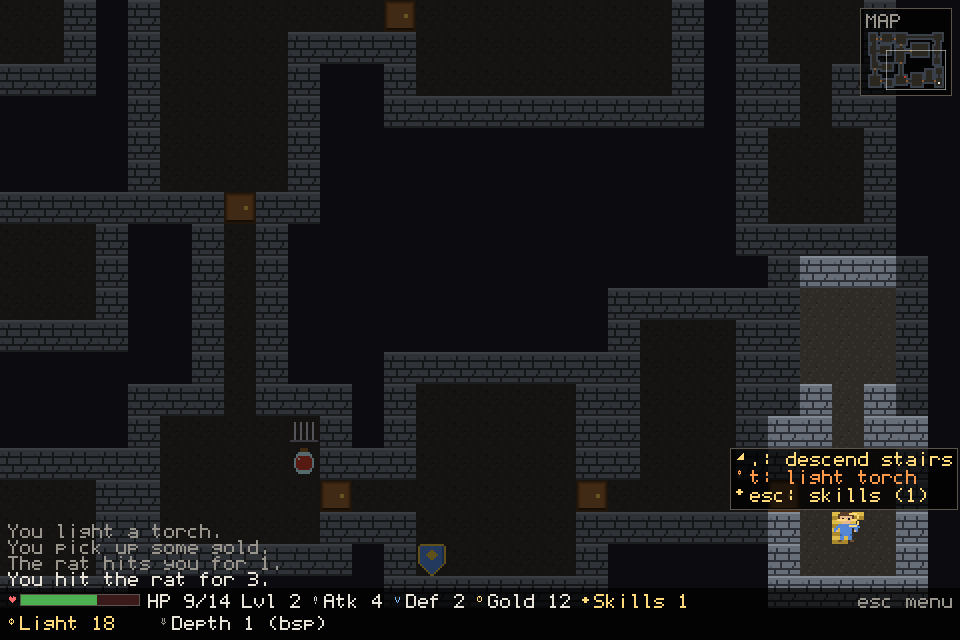
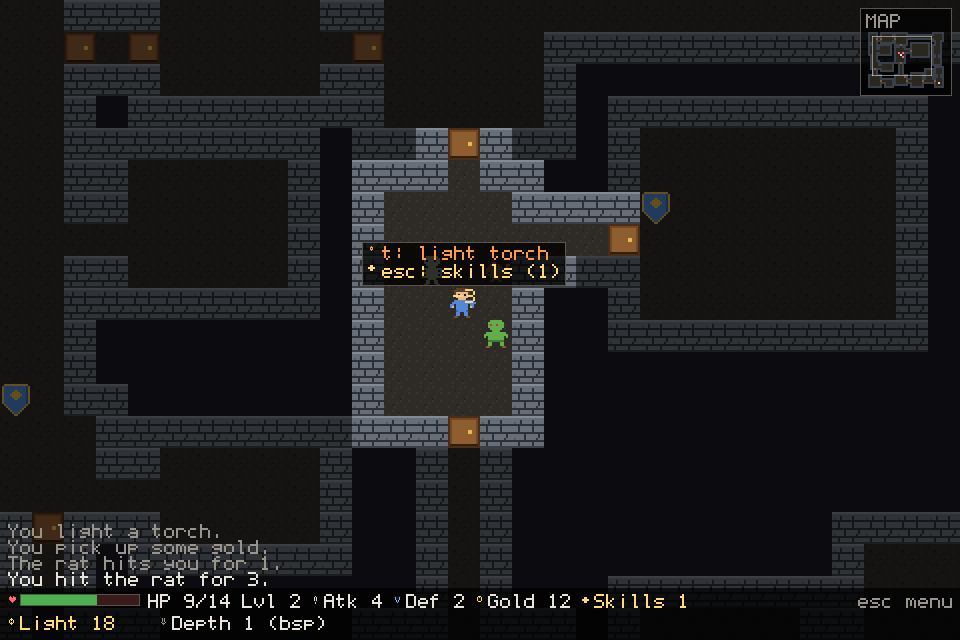
Center screenshot player in a room

diff --git a/tools/make-screenshots.ts b/tools/make-screenshots.ts
@@ -9,11 +9,12 @@ import { drawEffects } from "../src/ui/effects.ts";
 import { drawMinimap } from "../src/ui/minimap.ts";
 import { Iconset } from "../src/ui/icons.ts";
 import { Game } from "../src/core/game.ts";
+import { MONSTER_KINDS, type Entity } from "../src/core/entities.ts";
 import { MenuNav } from "../src/ui/menu.ts";
 import { buildMenuTree } from "../src/platform/menuTree.ts";
 import { defaultSettings } from "../src/platform/settings.ts";
 import { loadRun, saveRun, type SaveStorage } from "../src/platform/save.ts";
-import { bfsDistances } from "../src/core/mapgen/common.ts";
+import { bfsDistances, nearestOpen, type GameMap, type Point } from "../src/core/mapgen/common.ts";
 import { MAP_H, MAP_W } from "../src/core/map.ts";
 import { LOGICAL_H, LOGICAL_W } from "../src/core/constants.ts";
 
@@ -43,6 +44,83 @@ function makeIconset(): Iconset {
   return Iconset.fromImage(image as unknown as CanvasImageSource);
 }
 
+function centerOfRoomNearMapCenter(map: GameMap): Point {
+  const center = { x: Math.floor(map.width / 2), y: Math.floor(map.height / 2) };
+
+  if (map.rooms.length > 0) {
+    const room = [...map.rooms].sort((a, b) => {
+      const da = Math.abs(a.cx - center.x) + Math.abs(a.cy - center.y);
+      const db = Math.abs(b.cx - center.x) + Math.abs(b.cy - center.y);
+      return da - db;
+    })[0]!;
+    const open = nearestOpen(map.cells, { x: room.cx, y: room.cy });
+    if (open) return open;
+  }
+
+  const open = nearestOpen(map.cells, center);
+  return open ?? map.spawn;
+}
+
+function makeScreenshotMonster(
+  kind: (typeof MONSTER_KINDS)[number],
+  x: number,
+  y: number,
+  depth: number,
+  id: number,
+): Entity {
+  return {
+    id,
+    name: kind.name,
+    x,
+    y,
+    hp: kind.hp + depth,
+    maxHp: kind.hp + depth,
+    atk: kind.atk + Math.floor(depth / 2),
+    def: kind.def + Math.floor(depth / 3),
+    sprite: kind.sprite,
+    isPlayer: false,
+    alive: true,
+    xp: 0,
+    level: 1,
+    xpValue: kind.xp,
+    skillPoints: 0,
+    archetype: kind.archetype,
+    speed: kind.speed ?? 1,
+    range: kind.range ?? 0,
+    statuses: [],
+  };
+}
+
+function placeScreenshotMonsters(game: Game): void {
+  const playerKey = game.player.y * MAP_W + game.player.x;
+  const occupied = new Set<number>([playerKey]);
+  for (const item of game.map.items) {
+    occupied.add(item.y * MAP_W + item.x);
+  }
+
+  const candidates: { x: number; y: number; dist: number }[] = [];
+  for (const key of game.visible) {
+    if (occupied.has(key)) continue;
+    const x = key % MAP_W;
+    const y = Math.floor(key / MAP_W);
+    if (game.map.cells[y]![x] !== "floor") continue;
+    const dist = Math.abs(x - game.player.x) + Math.abs(y - game.player.y);
+    if (dist < 2 || dist > 6) continue;
+    candidates.push({ x, y, dist });
+  }
+
+  candidates.sort((a, b) => a.dist - b.dist);
+  const kinds = [MONSTER_KINDS[0]!, MONSTER_KINDS[1]!, MONSTER_KINDS[2]!];
+  const monsters = kinds
+    .slice(0, Math.min(3, candidates.length))
+    .map((kind, index) => {
+      const cell = candidates[index]!;
+      return makeScreenshotMonster(kind, cell.x, cell.y, game.depth, 9000 + index);
+    });
+
+  game.monstersByFloor.set(game.depth, monsters);
+}
+
 function createLoadedGame(): Game {
   const storage = new MemoryStorage();
   const source = new Game();
@@ -59,8 +137,9 @@ function createLoadedGame(): Game {
   source.inventory.gold = 12;
   source.kills = 3;
   source.lightTurns = 18;
-  source.player.x = source.map.stairs.x;
-  source.player.y = source.map.stairs.y;
+  const playerCenter = centerOfRoomNearMapCenter(source.map);
+  source.player.x = playerCenter.x;
+  source.player.y = playerCenter.y;
   source.refreshFOV();
 
   const explored = source.exploredByFloor.get(source.depth)!;
@@ -85,6 +164,7 @@ function createLoadedGame(): Game {
   source.logMessage("You pick up some gold.");
   source.logMessage("The rat hits you for 1.");
   source.logMessage("You hit the rat for 3.");
+  placeScreenshotMonsters(source);
 
   saveRun(storage, source);
 
